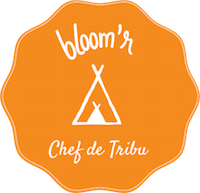
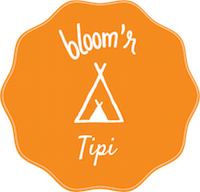
profile: wording, new badge + small style

diff --git a/app/assets/stylesheets/me.css.scss b/app/assets/stylesheets/me.css.scss
@@ -192,9 +192,12 @@
         font-size: 32px;
         margin: 0;
       }
+      p {
+        font-size: 16px;
+      }
       .one-challenge{
         font-size: 16px;
-        margin-top: 50px;
+        margin-top: 30px;
         border: 1px solid #DFD9C7;
         padding: 20px 0;
         h3.challenge-title {
@@ -209,6 +212,12 @@
           .select2 {
             max-width: 400px;
             margin: 0 auto;
+          }
+        }
+        .done {
+          p {
+            margin: 20px 0;
+            font-size: 18px;
           }
         }
       }
